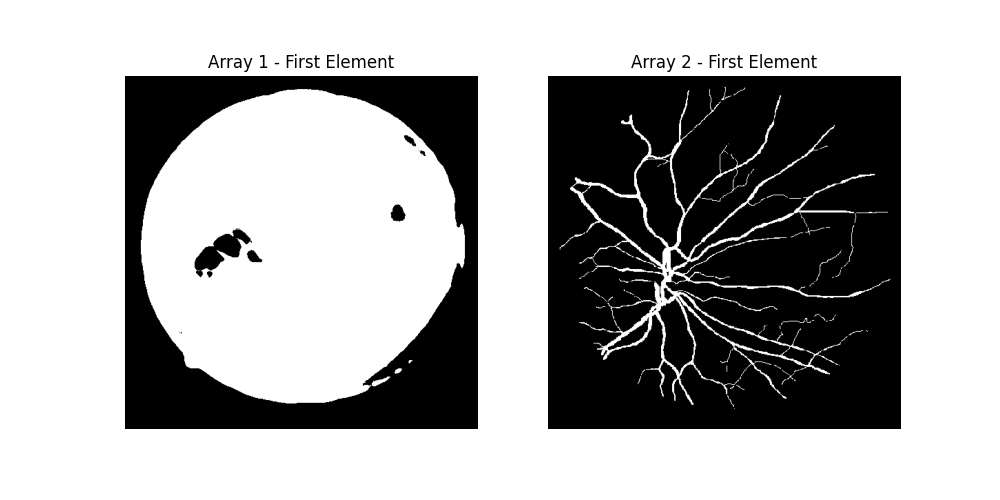
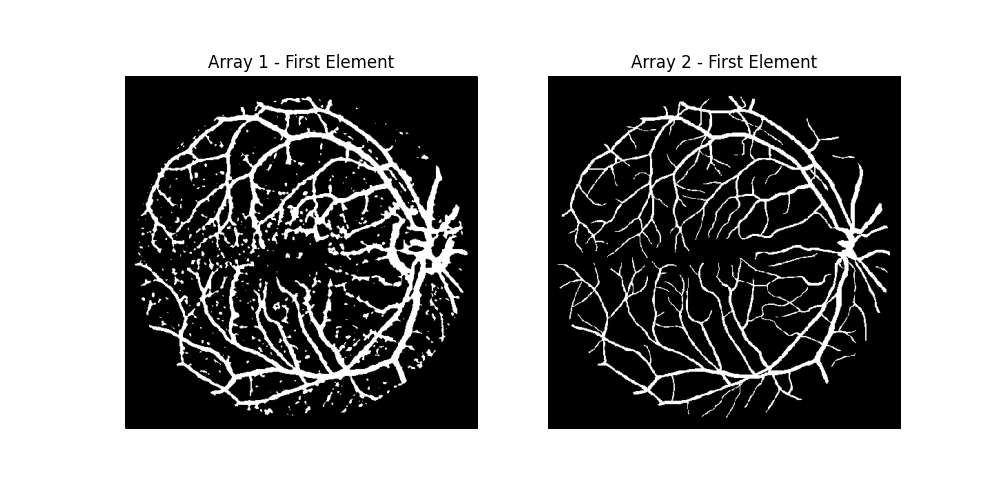
生成了对应conda和pip的环境；实现了DRIVE上的训练集、测试集、验证集的分割

Changed region(s): [[0.124, 0.18, 0.465, 0.84], [0.558, 0.18, 0.899, 0.81]]

diff --git a/data/MYDataset.py b/data/MYDataset.py
@@ -7,6 +7,7 @@ from torch.utils.data import Dataset
 import albumentations as A
 from albumentations.pytorch import ToTensorV2
 import matplotlib.pyplot as plt
+from sklearn.model_selection import train_test_split
 
 import debugpy
 
@@ -49,32 +50,65 @@ def show(dataset, index, save_path=None):
 
 
 class DRIVEDataset(Dataset):
-    def __init__(self, data_path, augmentations=None, if_train=False):
+    def __init__(
+        self,
+        data_path,
+        augmentations=None,
+        mode="train",
+        train_ratio=0.7,
+        eval_ratio=0.2,
+        random_seed=42,
+    ):
         super().__init__()
 
         self.images_path = sorted(glob(os.path.join(data_path, "images", "*")))
         self.masks_path = sorted(glob(os.path.join(data_path, "labels", "*")))
-        self.n_samples = len(self.images_path)
-        # self.augmentations = augmentations
-        if if_train:
-            print("Using train augmentations")
+
+        if not len(self.images_path) == len(self.masks_path):
+            raise ValueError("The number of images and masks do not match.")
+
+        # Split the dataset into train, eval, test sets
+        train_images, temp_images, train_masks, temp_masks = train_test_split(
+            self.images_path,
+            self.masks_path,
+            test_size=(1 - train_ratio),
+            random_state=random_seed,
+        )
+        eval_size = eval_ratio / (1 - train_ratio)
+        eval_images, test_images, eval_masks, test_masks = train_test_split(
+            temp_images, temp_masks, test_size=(1 - eval_size), random_state=random_seed
+        )
+
+        if mode == "train":
+            self.images_path, self.masks_path = train_images, train_masks
             self.init_augmentations(augmentations=augmentations)
-        else:
-            print("Using NO augmentations")
+        elif mode == "eval":
+            self.images_path, self.masks_path = eval_images, eval_masks
             self.augmentations = A.Compose(
                 [
+                    A.Resize(512, 512, interpolation=Image.Resampling.NEAREST),
                     ToTensorV2(),
                 ]
             )
+        elif mode == "test":
+            self.images_path, self.masks_path = test_images, test_masks
+            self.augmentations = A.Compose(
+                [
+                    A.Resize(512, 512, interpolation=Image.Resampling.NEAREST),
+                    ToTensorV2(),
+                ]
+            )
+        else:
+            raise ValueError("Mode should be 'train', 'eval', or 'test'.")
+
+        self.n_samples = len(self.images_path)
 
         for i in self.masks_path:
             if not os.path.exists(i):
                 print(f"file {i} does not exist.")
 
     def init_augmentations(self, augmentations=None):
-        # 定义增强变换
         if augmentations is None:
-            print("Using default augmentations")
             self.augmentations = A.Compose(
                 [
                     A.Resize(512, 512, interpolation=Image.Resampling.NEAREST),
@@ -87,21 +121,19 @@ class DRIVEDataset(Dataset):
                 ]
             )
         else:
-            print("Using custom augmentations")
             self.augmentations = augmentations
 
     def __getitem__(self, index):
         image = Image.open(self.images_path[index]).convert("RGB")
         mask = Image.open(self.masks_path[index]).convert("L")
-        # Convert to numpy arrays
         image = np.array(image)
         mask = np.array(mask)
-        # Apply augmentations
+
         if self.augmentations:
             augmented = self.augmentations(image=image, mask=mask)
             image = augmented["image"]
             mask = augmented["mask"]
-        # Normalize and convert to tensor
+
         image = image.float() / 255.0
         mask = mask.float().unsqueeze(0) / 255.0
 

diff --git a/test_trainer.py b/test_trainer.py
@@ -24,34 +24,22 @@ import debugpy
 # train_dataset = BUSIDataset(data_path="../Dataset/BUSI")
 # eval_dataset = BUSIDataset(data_path="../Dataset/BUSI")
 # data_collator = BUSIDataCollator()
-train_eval_dataset = DRIVEDataset(data_path="../Dataset/DRIVE/training")
-# 假设数据集有N个样本，我们想要拆分为80%的训练集和20%的验证集
-N = len(train_eval_dataset)
-indices = list(range(N))
-np.random.shuffle(indices)  # 随机打乱索引
-
-split_idx = int(N * 0.8)  # 计算拆分点
-
-# 创建训练集和验证集的索引
-train_indices, eval_indices = indices[:split_idx], indices[split_idx:]
-# 使用Subset来创建训练集和验证集
-train_dataset = Subset(train_eval_dataset, train_indices)
-eval_dataset = Subset(train_eval_dataset, eval_indices)
-
+train_dataset = DRIVEDataset(data_path="../Dataset/DRIVE/training")
+eval_dataset = DRIVEDataset(data_path="../Dataset/DRIVE/training", mode="eval")
 # 建立对应的测试数据集
-test_dataset = DRIVEDataset(data_path="../Dataset/DRIVE/test")
+test_dataset = DRIVEDataset(data_path="../Dataset/DRIVE/test", mode="test")
 data_collator = DRIVEDataCollator()
 
 training_args = TrainingArguments(
     output_dir="./results",
-    evaluation_strategy="epoch",
-    eval_steps=1,
+    evaluation_strategy="steps",
+    eval_steps=100,
     logging_dir="./logs",
-    logging_steps=1,
+    logging_steps=100,
     num_train_epochs=5000,
-    per_device_train_batch_size=24,
-    per_device_eval_batch_size=24,
-    save_steps=1,
+    per_device_train_batch_size=2,
+    per_device_eval_batch_size=2,
+    save_steps=1000,
     save_total_limit=5,
     remove_unused_columns=False,
     label_names=["labels"]

diff --git a/trainer/metrcis.py b/trainer/metrcis.py
@@ -7,7 +7,7 @@ from medpy import metric
 import torch
 
 
-def plot_first_element(array1, array2, threshold=0.5):
+def plot_first_element(array1, array2, threshold=0.5, save_path="output.png"):
     """
     绘制两个形状为 (N, H, W) 的 NumPy 数组的第一个元素的灰阶图。
 
@@ -51,10 +51,11 @@ def plot_first_element(array1, array2, threshold=0.5):
     plt.title("Array 2 - First Element")
     plt.imshow(first_element_array2, cmap="gray")
     plt.axis("off")  # 隐藏坐标轴
-    plt.savefig("output.png")
+    if save_path is not None:
+        plt.savefig(save_path)
+    else:
+        plt.show()
 
-    # 显示图像
-    plt.show()
 
 
 def compute_iou(preds, labels, threshold=0.5):
